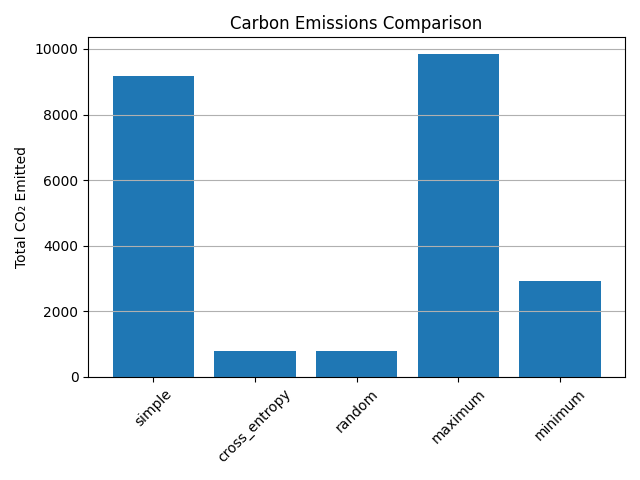
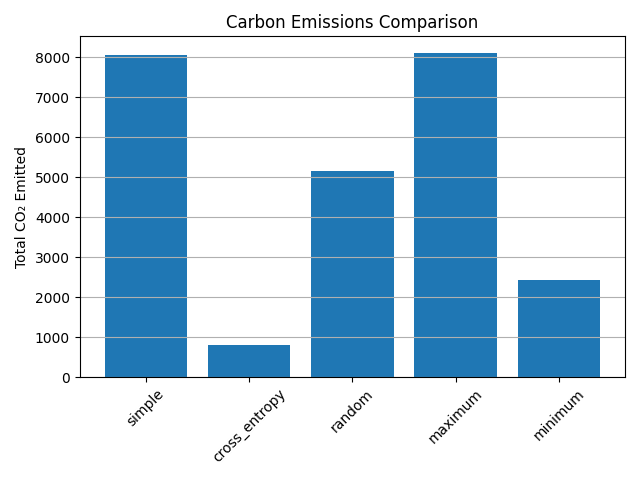
modified plotting, added random seed, cleaned up a little

diff --git a/run_sims.py b/run_sims.py
@@ -3,7 +3,7 @@ File: run_sims.py
 By: Yasmine Alonso (yalonso) and Kate Baker (kesbaker)
 For: AA222 (Engineering Design Optimization) Final Project
 ----------------------------------------------------------
-Runs simulations for our final project!
+Runs simulations for our final project to test how a variety of methods perform!
 """
 
 from NetworkSimulator import NetworkSimulator
@@ -12,31 +12,32 @@ import policies
 import matplotlib.pyplot as plt
 from collections import Counter, defaultdict
 import numpy as np
-
+import random
+import sys
 
 
 # use this dictionary to loop through the multiple plotting
 policy_dict = {
     "simple": policies.simple_quality_policy,
     "cross_entropy": policies.cross_entropy_policy,
-    "random": policies.cross_entropy_policy,
+    "random": policies.random_policy,
     "maximum": policies.always_max_quality,
     "minimum": policies.always_min_quality
 }
 
 # initial segments to try
-N_SEGMENTS = 20
+# N_SEGMENTS = 20
 
 
 # testing! 20 segments with a random policy
 simulator = NetworkSimulator(20, policies.simple_quality_policy)
 res = simulator.simulate()  # returns SimulationResult object
-print(res.average_quality)
-print(res.quality_history)
+# print(res.average_quality)
+# print(res.quality_history)
 # obviously i'd want to print more stats but just wanted to test
 
 
-def quality_over_time_comparison(num_segments, policy_dict):
+def quality_over_time_comparison(results, labels, num_segments=constants.N_SEGMENTS):
     """
     Plots the quality levels over time for each policy on the same chart.
     
@@ -46,10 +47,17 @@ def quality_over_time_comparison(num_segments, policy_dict):
     """
     plt.figure()
 
-    for label, policy in policy_dict.items():
-        simulator = NetworkSimulator(num_segments, policy)
-        res = simulator.simulate()
+    for i in range(len(results)):
+        label = labels[i]
+        res = results[i]
         plt.plot(res.quality_history, marker='o', label=label)
+
+
+    # for label, policy in policy_dict.items():
+    #     random.seed(331703)  #birthdays hehehe, ensures that each simulation run with a different policy has the same stream of randomness generated
+    #     simulator = NetworkSimulator(num_segments, policy)
+    #     res = simulator.simulate()
+    #     plt.plot(res.quality_history, marker='o', label=label)
 
     plt.title("Quality Level Over Time by Policy")
     plt.xlabel("Segment #")
@@ -61,42 +69,40 @@ def quality_over_time_comparison(num_segments, policy_dict):
     plt.show()
 
 
-
-
-def quality_choice_hist_comparison(num_segments, policy_dict):
+def quality_choice_hist_comparison(simulation_results, labels):
     """
     Compares how different policies distribute their quality choices.
     Plots a grouped bar chart with frequency of each quality level per policy.
+
+    Parameters:
+    - simulation_results: List of SimulationResult objects
+    - labels: List of corresponding policy labels (strings)
     """
 
-    # Collect all results
-    quality_levels = sorted(set(val for val in constants.QUALITY_LEVELS.values()))
+    if len(simulation_results) != len(labels):
+        raise ValueError("simulation_results and labels must be the same length")
+
+    quality_levels = sorted(set(constants.QUALITY_LEVELS.values()))
     data = defaultdict(list)  # quality level → list of counts (one per policy)
 
-    policy_names = []
-
-    for label, policy in policy_dict.items():
-        simulator = NetworkSimulator(num_segments, policy)
-        res = simulator.simulate()
+    for res in simulation_results:
         counts = Counter(res.quality_history)
-        policy_names.append(label)
-
         for q in quality_levels:
             data[q].append(counts.get(q, 0))  # fill in 0 if this quality wasn't chosen
 
     # Plotting grouped bar chart
     x = np.arange(len(quality_levels))  # group positions
-    width = 0.8 / len(policy_dict)      # bar width based on number of policies
+    width = 0.8 / len(simulation_results)  # bar width based on number of policies
 
     plt.figure()
-    for i, label in enumerate(policy_names):
+    for i, label in enumerate(labels):
         heights = [data[q][i] for q in quality_levels]
         plt.bar(x + i * width, heights, width=width, label=label)
 
     plt.title("Distribution of Quality Levels by Policy")
     plt.xlabel("Quality (Mbps)")
     plt.ylabel("Frequency")
-    plt.xticks(x + width * (len(policy_dict) - 1) / 2, quality_levels)
+    plt.xticks(x + width * (len(simulation_results) - 1) / 2, quality_levels)
     plt.legend()
     plt.grid(axis='y')
     plt.tight_layout()
@@ -105,18 +111,18 @@ def quality_choice_hist_comparison(num_segments, policy_dict):
 
 
 
-def compare_co2_hist(num_segments, policy_dict):
+def compare_co2_hist(results, labels, num_segments=constants.N_SEGMENTS):
     """
     Takes a dictionary of {label: policy_fn}, runs each, and plots all emissions together.
     """
-    labels = []
-    emissions = []
+    # labels = []
+    emissions = [result.carbon_emitted for result in results]
 
-    for label, policy in policy_dict.items():
-        simulator = NetworkSimulator(num_segments, policy)
-        res = simulator.simulate()
-        labels.append(label)
-        emissions.append(res.carbon_emitted)
+    # for label, policy in policy_dict.items():
+    #     #simulator = NetworkSimulator(num_segments, policy)
+    #     #res = simulator.simulate()
+    #     #labels.append(label)
+    #     emissions.append(res.carbon_emitted)
 
     plt.bar(labels, emissions)
     plt.ylabel("Total CO₂ Emitted")
@@ -129,11 +135,112 @@ def compare_co2_hist(num_segments, policy_dict):
 
 
 
-def main():
+def plot_four_objective_radar(results, labels):
+    """
+    Generates a radar plot demonstrating the 4 objectives we're trying to achieve:
+    - Minimized CO2 emissions
+    - Minimized cost ($)
+    - Minimized rebuffer time
+    - Maximized streaming quality
 
-    quality_over_time_comparison(N_SEGMENTS, policy_dict)
-    quality_choice_hist_comparison(N_SEGMENTS, policy_dict)
-    compare_co2_hist(N_SEGMENTS, policy_dict)
+    Args:
+        results (List[SimulationResult]): List of SimulationResults that comes from running sims
+        labels (List[string]): List of string labels of the policy types that we are testing
+
+    Refernces:
+    - Used ChatGPT to write plotting code
+    """
+    # Extract raw data
+    avg_quality = np.array([r.average_quality for r in results])
+    inv_rebuffers = np.array([1 / r.total_rebuffer_time if r.total_rebuffer_time > 0 else 0 for r in results])
+    inv_carbon = np.array([1 / r.carbon_emitted if r.carbon_emitted > 0 else 0 for r in results])
+    inv_cost = np.array([1 / r.total_cost if r.total_cost > 0 else 0 for r in results])
+
+    # Stack them for easier normalization
+    data = np.stack([avg_quality, inv_rebuffers, inv_carbon, inv_cost], axis=1)
+
+    # Normalize each column to [0, 1]
+    min_vals = data.min(axis=0)
+    max_vals = data.max(axis=0)
+    ranges = max_vals - min_vals
+    normalized = (data - min_vals) / np.where(ranges == 0, 1, ranges)
+
+    # Set up the radar plot
+    num_vars = 4
+    angles = np.linspace(0, 2 * np.pi, num_vars, endpoint=False).tolist()
+    angles += angles[:1]  # loop back to start
+
+    categories = [
+        "Avg Quality",
+        "1 / Time rebuffering",
+        "1 / Carbon Emitted",
+        "1 / Total Cost"
+    ]
+
+    fig, ax = plt.subplots(figsize=(6, 6), subplot_kw=dict(polar=True))
+
+    for i, (row, label) in enumerate(zip(normalized, labels)):
+        values = row.tolist()
+        values += values[:1]  # close the loop
+        ax.plot(angles, values, label=label)
+        ax.fill(angles, values, alpha=0.1)
+
+    ax.set_xticks(angles[:-1])
+    ax.set_xticklabels(categories)
+    ax.set_yticklabels([])
+    ax.set_title("Policy Comparison on 4 Objectives", size=14)
+    ax.legend(loc='upper right', bbox_to_anchor=(1.3, 1.1))
+
+    plt.tight_layout()
+    plt.show()
+
+def create_plots(simulation_results, labels, num_segments):
+    plot_four_objective_radar(simulation_results, labels)
+    compare_co2_hist(simulation_results, labels, num_segments)
+    quality_over_time_comparison(simulation_results, labels, num_segments)
+    quality_choice_hist_comparison(simulation_results, labels)
+
+
+def simulate_policies(num_segments, policy_dict, verbose=False, plots=False):
+    simulation_results = []
+    for label, policy in policy_dict.items():
+        random.seed(331703)  #birthdays hehehe, ensures that each simulation run with a different policy has the same stream of randomness generated
+        simulator = NetworkSimulator(num_segments, policy)
+        res = simulator.simulate()
+        simulation_results.append(res)
+        if verbose:
+            print("")
+            print(f"---------------------------------------------------------")
+            print(f"Completed simulations for {label}.....")
+            print(f"    Quality history: {res.quality_history}")
+            print(f"    CO2 emitted: {res.carbon_emitted}")
+            print(f"    # of rebuffers: {res.num_rebuffer_events}")
+            print(f"    Total cost ($): {res.total_cost}")
+            print(f"---------------------------------------------------------")
+            print("")
+
+    labels = list(policy_dict.keys())
+
+    # Create all desired plots
+    if plots:
+        create_plots(simulation_results, labels, num_segments)
+
+
+
+def main():
+    args = sys.argv[1:] 
+
+    # -v for verbose (prints more output to console)
+    # -p for generating plots
+    valid_flags = {"-v", "-p"}
+    if any(arg not in valid_flags for arg in args) or len(args) > 2:
+        raise ValueError("Incorrect usage. Valid flags are '-v' and '-p'. Use like: `python3 run_sims.py -v -p`")
+
+    verbose = "-v" in args
+    plots = "-p" in args
+
+    simulate_policies(constants.N_SEGMENTS, policy_dict, verbose=verbose, plots=plots)
+
 
 
 

diff --git a/constants.py b/constants.py
@@ -23,7 +23,9 @@ LOCATIONS_CO2_DICT = {
 # TODO explain why we kept these as not real numbers --> TY and netflix have a predefined set but this could be a possible extension to our work
 QUALITY_LEVELS = {
     "LOW" : 0.3,  # 0.3 MB/sec
+    "LOW-MED" : 0.4,
     "MEDIUM" : 0.5,
+    "MED-HIGH" : 0.7,
     "HIGH" : 1.0
 }
 
@@ -35,3 +37,6 @@ COST_PER_MB = 0.01
 # Used to simulate noise at each timestep
 NETWORK_THROUGHPUT_MEAN = 50
 NETWORK_THROUGHPUT_STD = 10
+
+# Number of video segments used for simulations
+N_SEGMENTS = 20

diff --git a/NetworkSimulator.py b/NetworkSimulator.py
@@ -10,10 +10,6 @@ import policies
 import constants  # defines constants that are used across multiple files, eg quality levels, server locations, distances from servers etc
 from SimulationResult import SimulationResult
 
-# ----------------- CONSTANTS ------------------
-#moved all to constants.py
-# ----------------------------------------------
-
 
 """
 Kate recap notes (can delete)

diff --git a/SimulationResult.py b/SimulationResult.py
@@ -14,3 +14,4 @@ class SimulationResult:
         self.num_rebuffer_events = num_rebuffer_events
         self.carbon_emitted = carbon_emitted
         self.total_cost = total_cost
+        # self.method_label = method_label
